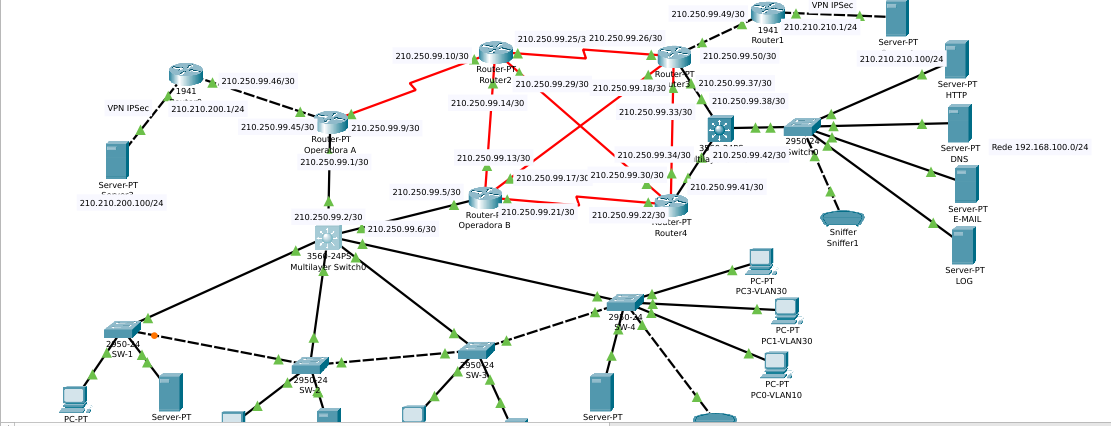
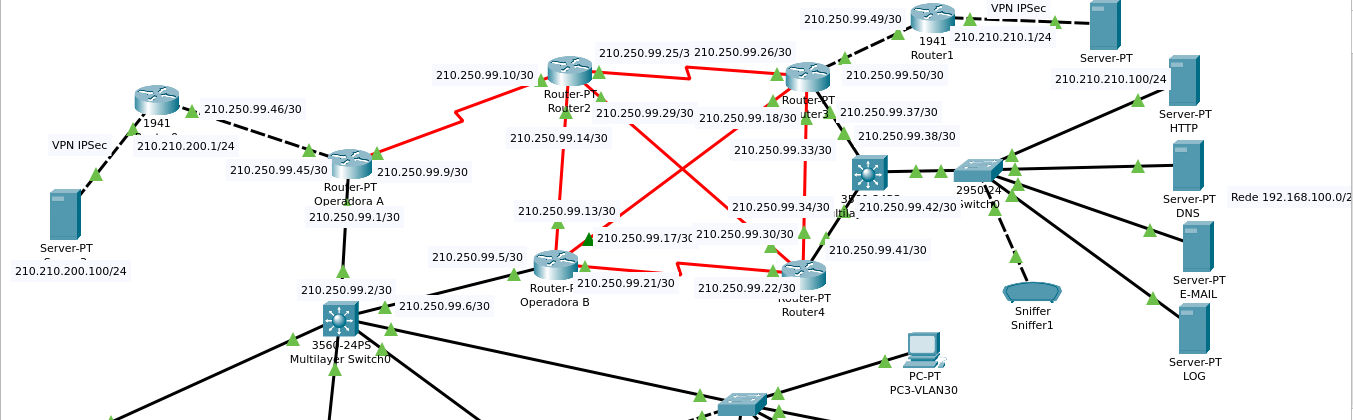
fix: Troca a imagem do projeto de redes e remove as bordas dos botoes na versao desktop

diff --git a/src/Styles/Header.css b/src/Styles/Header.css
@@ -24,7 +24,7 @@
 
 .menu button {
     background-color: var(--bg-color);
-    border: 1px solid var(--bg-color);
+    border: 0px solid var(--bg-color);
     color: var(--font-color);
     font-size: 1.1rem;
     height: 100%;
